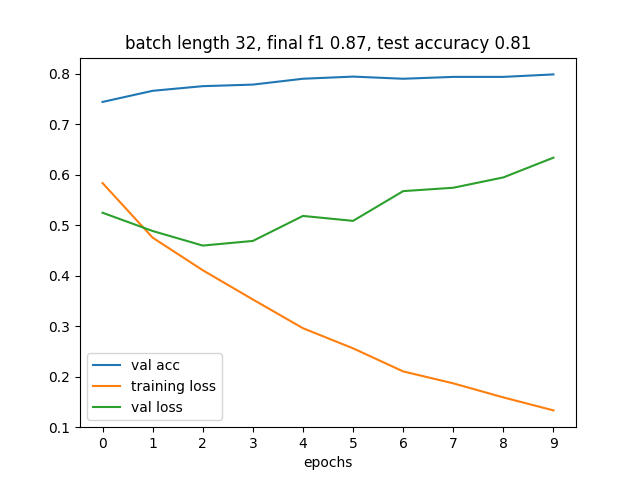
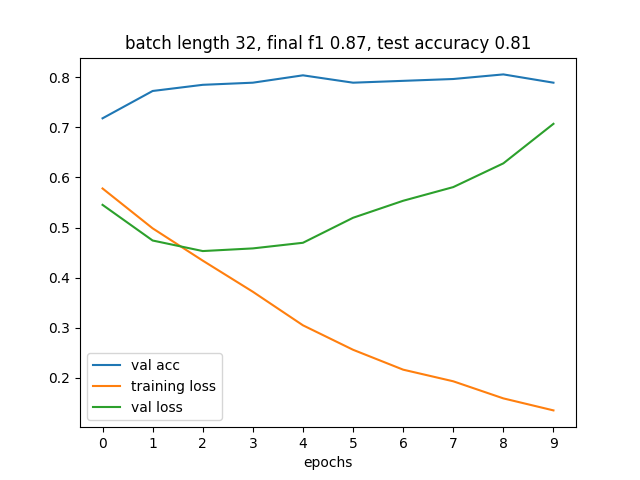
finished the final dataset. posneutral third rendition geolocated will probarbly be the final version

diff --git a/NorBert_utls/roberta_solar_sentiment.py b/NorBert_utls/roberta_solar_sentiment.py
@@ -413,7 +413,7 @@ def roberta_sentiment(lr = 1e-5, batch_size = 16, epochs = 10, plot = False, pre
         encoded_dict = tokenizer.encode_plus(
                             sent,                      # Sentence to encode.
                             add_special_tokens = True, # Add '[CLS]' and '[SEP]'
-                            max_length = 128,           # Pad & truncate all sentences.
+                            max_length = max_length,           # Pad & truncate all sentences.
                             truncation = True,
                             pad_to_max_length = True,
                             return_attention_mask = True,   # Construct attn. masks.
@@ -514,11 +514,11 @@ def roberta_sentiment(lr = 1e-5, batch_size = 16, epochs = 10, plot = False, pre
         #               Prediction
         # ========================================
 
-    predict_dataset = '/home/andebraa/wind_power_analysis/data/second_rendition_data/'
+    predict_dataset = '/home/andebraa/wind_power_analysis/data/third_rendition_data/'
     #second_rendition_geolocated_anonymous.csv' 
     if predict:
         from itertools import chain
-        filename = 'second_rendition_geolocated_noemoji_anonymous.csv' 
+        filename = 'third_rendition_geolocated_anonymous.csv' 
         print("predicting file :", filename, '\n')
         with open(predict_dataset+filename) as f: #NOTE:wtf are phrase ids
             df = pd.read_csv(predict_dataset+filename, sep=',', usecols=['username',
@@ -544,7 +544,7 @@ def roberta_sentiment(lr = 1e-5, batch_size = 16, epochs = 10, plot = False, pre
                 encoded_dict = tokenizer.encode_plus(
                                 sent,                      # Sentence to encode.
                                 add_special_tokens = True, # Add '[CLS]' and '[SEP]'
-                                max_length = 128,           # Pad & truncate all sentences.
+                                max_length = max_length,           # Pad & truncate all sentences.
                                 truncation = True,
                                 pad_to_max_length = True,
                                 return_attention_mask = True,   # Construct attn. masks.
@@ -621,7 +621,7 @@ def roberta_sentiment(lr = 1e-5, batch_size = 16, epochs = 10, plot = False, pre
             #true_labels = list(chain.from_iterable(true_labels))
             df1 = pd.DataFrame(list(zip(sentences, predictions, logits0, logits1)), 
                                columns=['text', 'label', 'logits0', 'logits1'])
-            out_filename = 'second_rendition_geolocated_noemoji_anonymous_negneutral_predict.csv'
+            out_filename = 'third_rendition_geolocated_anonymous_negneutral_predict.csv'
             
             df['label'] = df1.label.copy() 
             df['logits0'] = df1.logits0.copy() 
@@ -667,5 +667,5 @@ def gridsearch():
 if __name__ == '__main__':
         
 
-    roberta_sentiment(lr = 1e-5, batch_size = 32, epochs = 10, plot=True, predict = False)
+    roberta_sentiment(lr = 1e-5, batch_size = 32, epochs = 8, plot=True, predict = True)
 
